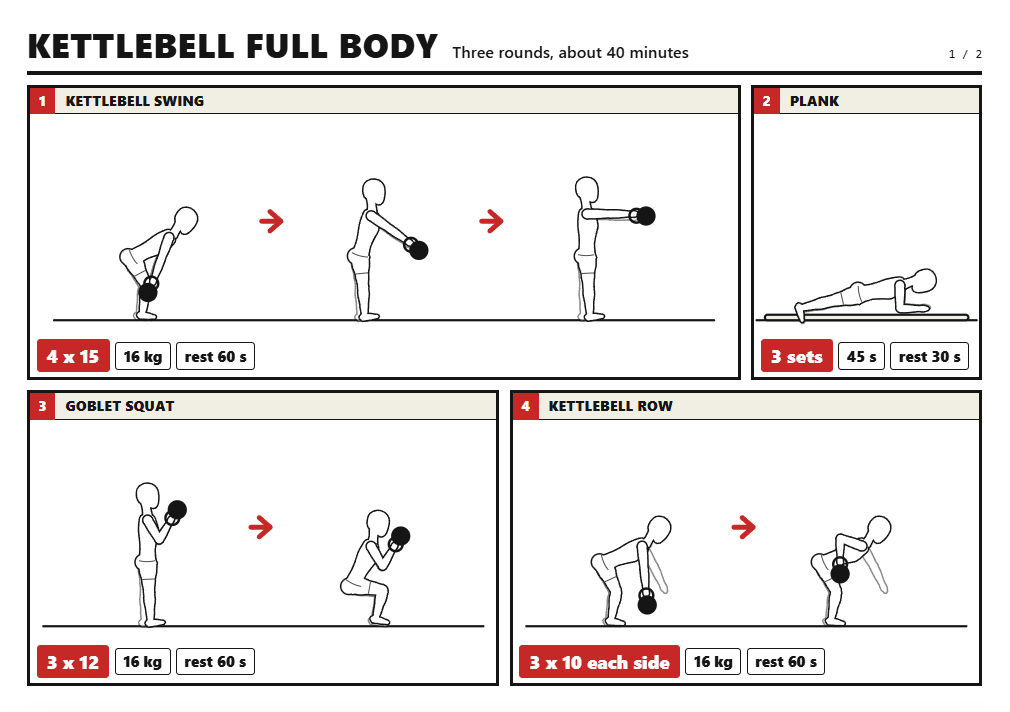
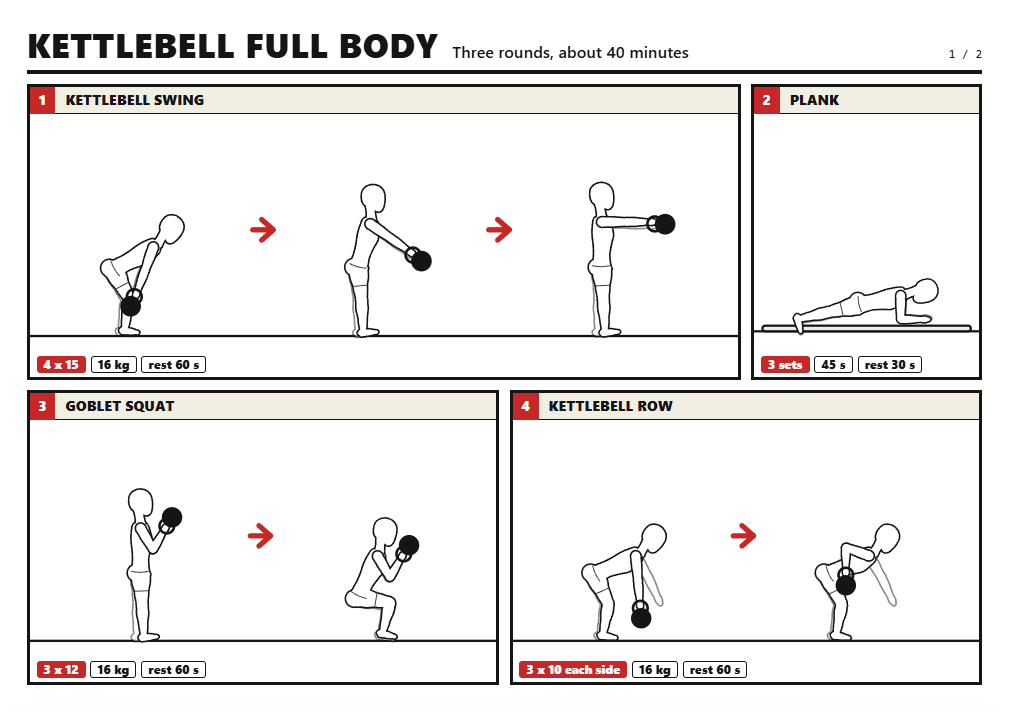
Compact chips, matched to one note line, and a six-row option
The reps, weight and rest chips are now exactly as tall as one line of note in
every layout, and the reps chip is the same size as the others. Rows per page
goes up to 6. The five and six row modes still scale the type down uniformly
when the rows get short.

diff --git a/index.html b/index.html
@@ -1213,10 +1213,12 @@ svg .arr { fill: none; stroke: var(--spot); stroke-width: 3.6; stroke-linecap: r
 .cap .num { min-width: 1.8em; padding: 0.35em 0.6em; text-align: center; background: var(--spot); color: var(--spot-ink); }
 .cap .nm { flex: 1; min-width: 0; padding: 0.35em 0.7em; background: var(--tint); border-bottom: calc(0.5mm * var(--kc)) solid var(--ink); overflow: hidden; text-overflow: ellipsis; white-space: nowrap; }
 .cell svg.strip { flex: 1 1 0; min-height: 0; width: 100%; display: block; }
-.chips { display: flex; flex-wrap: wrap; align-items: center; gap: calc(1.6mm * var(--kc)); padding: calc(1.4mm * var(--kc)) calc(2mm * var(--kc)); }
-.chip { padding: 0.1em 0.5em; font-size: calc(4.4mm * var(--kc)); font-weight: 800; white-space: nowrap; background: var(--paper); border: calc(0.5mm * var(--kc)) solid var(--ink); border-radius: calc(1mm * var(--kc)); }
-.chip.main { font-size: calc(5.4mm * var(--kc)); background: var(--spot); color: var(--spot-ink); border-color: var(--spot); }
-.cnote { padding: calc(1.2mm * var(--kc)) calc(2mm * var(--kc)); font-size: calc(3.6mm * var(--kc)); font-style: italic; line-height: 1.25; background: var(--note); border-top: calc(0.5mm * var(--kc)) solid var(--ink); }
+/* The chip row is exactly as tall as one line of note (7.4mm: 4.5mm of text, 2.4mm of padding, 0.5mm of rule), and the reps chip is the
+   same size as the others, so the figure gets the room. It only grows if the chips have to wrap onto a second line. */
+.chips { display: flex; flex-wrap: wrap; align-items: center; gap: calc(1.4mm * var(--kc)); box-sizing: border-box; min-height: calc(7.4mm * var(--kc)); padding: calc(0.8mm * var(--kc)) calc(2mm * var(--kc)); }
+.chip { padding: 0 0.5em; font-size: calc(3.6mm * var(--kc)); line-height: 1.2; font-weight: 800; white-space: nowrap; background: var(--paper); border: calc(0.4mm * var(--kc)) solid var(--ink); border-radius: calc(0.9mm * var(--kc)); }
+.chip.main { background: var(--spot); color: var(--spot-ink); border-color: var(--spot); }
+.cnote { box-sizing: border-box; min-height: calc(7.4mm * var(--kc)); padding: calc(1.2mm * var(--kc)) calc(2mm * var(--kc)); font-size: calc(3.6mm * var(--kc)); font-style: italic; line-height: 1.25; background: var(--note); border-top: calc(0.5mm * var(--kc)) solid var(--ink); }
 
 @media print {
     html, body { background: #ffffff !important; }
@@ -1381,7 +1383,7 @@ svg .arr { fill: none; stroke: var(--spot); stroke-width: 3.6; stroke-linecap: r
                 <label class="f">Paper<select class="field" id="lPaper"></select></label>
                 <label class="f">Orientation<select class="field" id="lOrient"><option value="landscape">Landscape</option><option value="portrait">Portrait</option></select></label>
                 <label class="f">Columns<input type="number" class="field" id="lCols" min="1" max="6" step="1"></label>
-                <label class="f">Rows per page<input type="number" class="field" id="lRows" min="1" max="5" step="1"></label>
+                <label class="f">Rows per page<input type="number" class="field" id="lRows" min="1" max="6" step="1"></label>
                 <label class="f">Accent ink<select class="field" id="lSpot"></select></label>
                 <label class="f">Figure<select class="field" id="lFig"></select></label>
             </div>
@@ -2919,7 +2921,7 @@ function cleanState(d) {
     if (has(PAPER, lo.paper)) s.layout.paper = lo.paper;
     if (lo.orient === "portrait") s.layout.orient = "portrait";
     s.layout.cols = Math.round(num(lo.cols, 1, 6, s.layout.cols));
-    s.layout.rows = Math.round(num(lo.rows, 1, 5, s.layout.rows));
+    s.layout.rows = Math.round(num(lo.rows, 1, 6, s.layout.rows));
     if (has(SPOTS, lo.spot)) s.layout.spot = lo.spot;
     if (FIGURES.some(r => r[0] === lo.figure)) s.layout.figure = lo.figure;
     s.panels = (Array.isArray(d.panels) ? d.panels : []).slice(0, 60).map(cleanPanel);
@@ -3108,8 +3110,8 @@ function renderSheets() {
     let st = $("#pageStyle");
     st.textContent = "@page { size: " + W + "mm " + H + "mm; margin: 0; }";
 
-    /* Only the five-row mode shrinks the type. A row is comfortable at about 52 mm (A4 scale) or more, so a short five-row
-       page (landscape) scales the cell type and borders down, by the same amount on every panel. Fewer rows are full size. */
+    /* Only the five and six row modes shrink the type. A row is comfortable at about 52 mm (A4 scale) or more, so a short
+       page (landscape, or six rows) scales the cell type and borders down, by the same amount on every panel. Fewer rows are full size. */
     const fit = lo.rows >= 5 ? Math.round(Math.min(1, (H / k - 36) / lo.rows / 52) * 100) / 100 : 1;
     const rows = planRows(state.panels, lo.cols);
     const pages = [];
@@ -3440,7 +3442,7 @@ $("#btnBlank").addEventListener("click", () => {
     });
     spot.addEventListener("change", () => { state.layout.spot = spot.value; changed(); });
     fig.addEventListener("change", () => { state.layout.figure = fig.value; changed(); });
-    [["lCols", "cols", 1, 6], ["lRows", "rows", 1, 5]].forEach(([id, k, lo, hi]) =>
+    [["lCols", "cols", 1, 6], ["lRows", "rows", 1, 6]].forEach(([id, k, lo, hi]) =>
         $("#" + id).addEventListener("input", e => {
             if (e.target.value === "") return;
             state.layout[k] = Math.round(num(e.target.value, lo, hi, state.layout[k]));

diff --git a/README.md b/README.md
@@ -14,7 +14,7 @@ The sheet that prints, page 1 of a two page plan (A4 landscape, four columns, tw
 
 1. Pick an exercise from the library to add a panel, or add a blank one.
 2. Select a panel (click it in the preview) and edit its text, poses and props.
-3. Set paper, orientation, columns and rows per page (up to 5), and the figure style, in the Sheet panel. Change a panel's width in the panel editor to make a row fit.
+3. Set paper, orientation, columns and rows per page (up to 6), and the figure style, in the Sheet panel. Change a panel's width in the panel editor to make a row fit.
 4. Print, and choose Save as PDF as the destination.
 
 ## Figures
@@ -65,7 +65,7 @@ Save JSON writes the whole plan. Load JSON reads it back, including files saved 
 
 ## Layout
 
-Panels are placed left to right. A panel takes one column per pose unless you set its Width on the sheet in the panel editor: Automatic is one column per pose, and 1 to 6 columns fixes the width (never more than the sheet has). A narrow panel is how you fit four short exercises across a landscape page, and a wide one is how you fill a row. If the next panel will not fit in the row, the previous one stretches to close it. A partly filled last row is left open. `rows` is how many rows fit on a page, up to 5, and extra rows go onto further pages. Type scales with paper size, so A3 is A4 enlarged. In the five-row mode it also scales down when the page is short (landscape), by the same amount on every panel so they stay uniform. Four rows or fewer are always full size.
+Panels are placed left to right. A panel takes one column per pose unless you set its Width on the sheet in the panel editor: Automatic is one column per pose, and 1 to 6 columns fixes the width (never more than the sheet has). A narrow panel is how you fit four short exercises across a landscape page, and a wide one is how you fill a row. If the next panel will not fit in the row, the previous one stretches to close it. A partly filled last row is left open. `rows` is how many rows fit on a page, up to 6, and extra rows go onto further pages. Type scales with paper size, so A3 is A4 enlarged. In the five and six row modes it also scales down when the rows get short (landscape, or six rows), by the same amount on every panel so they stay uniform. Four rows or fewer are always full size. The reps, weight and rest chips are as tall as one line of note in every layout.
 
 ## Library
 
